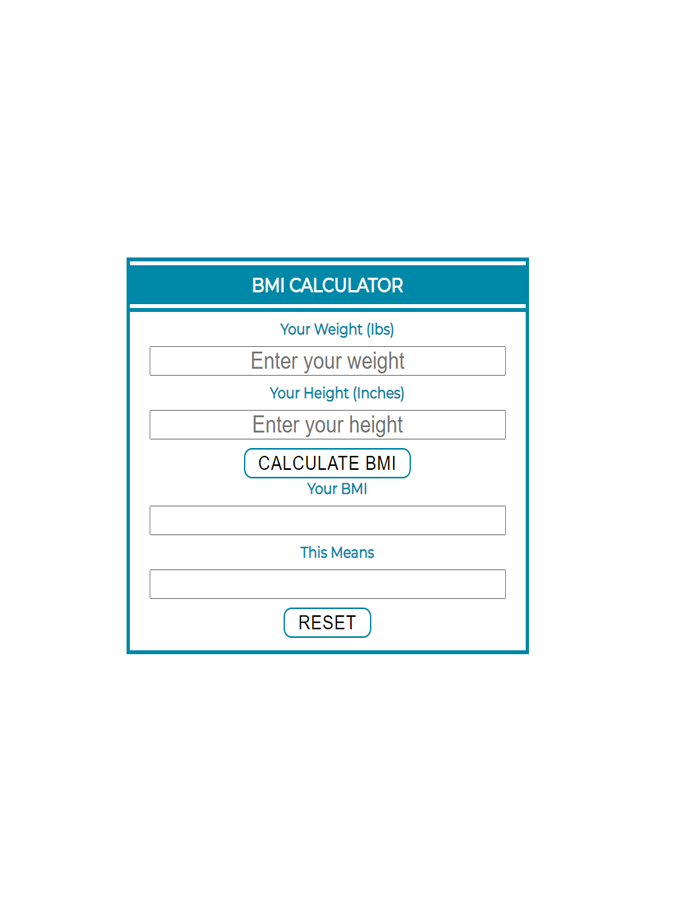
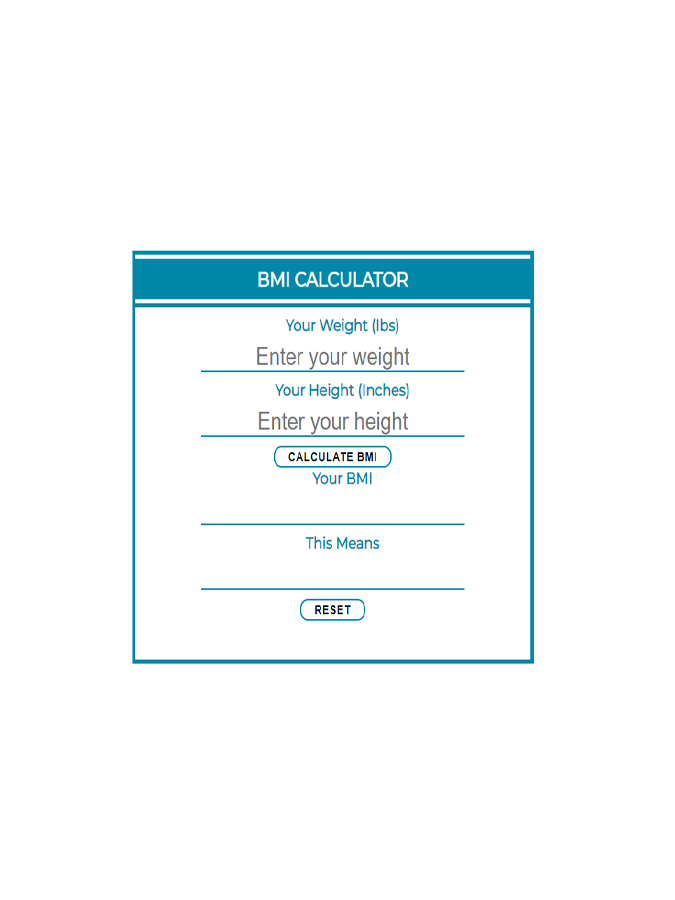
updateit

Changed region(s): [[0.1867, 0.28, 0.8089, 0.7467]]

diff --git a/css/style.css b/css/style.css
@@ -933,7 +933,6 @@ button {
   #undctable {
     border: 2px solid#0088a9;
     border-radius: 4px;
-    background-color: #eee;
     padding: 8px;
     margin-top: 15px;
   }
@@ -941,9 +940,14 @@ button {
   .ucdcinput {
     width: 200px;
     padding: 8px;
-    border-radius: 10px;
     font-size: 20px;
     outline: 0;
+    background: none;
+    text-align: center;
+    outline: none;
+    border: none;
+    border-bottom: 2px solid #0088a9;
+    width: 200px;
   }
 
   .bigtext {
@@ -971,32 +975,91 @@ button {
   /* End Hex to bin */
 
   /* Unicode */
-  .unicode {
+  #infos .row {
+    width: 90%;
+    padding: 20px;
+    margin: 100px auto;
+    display: flex;
+    flex-direction: row;
+    justify-content: center;
+  }
+
+  #infos .column {
+    width: 350px;
+    margin: -50px 10px;
+    box-shadow: 0 0 20px 2px rgba(0, 0, 0, 0.1);
+    transition: 1s;
+  }
+
+  #infos .column img {
+    display: block;
+    width: 100%;
+    border-radius: 5px;
     border: 2px solid#0088a9;
-    border-radius: 4px;
-    background-color: #eee;
-    padding: 8px;
-    margin-top: 15px;
-    margin-left: 30%;
-    margin-right: 30%;
   }
 
-  .unicode h2 {
-    font-size: 18px;
+  #infos .column:hover {
+    transform: scale(1.3);
+    z-index: 2;
   }
 
-  .column {
-    margin-top: -250px;
-    float: left;
-    width: 33.33%;
-    padding: 5px;
-    border: 2px solid #0088a9;
-  }
-
-  .row::after {
+  #infos .row::after {
     content: "";
     display: table;
     clear: both;
+  }
+
+  #infos .top {
+    font-size: 30px;
+    font-weight: 600;
+    color: red;
+  }
+
+  #infos .text {
+    text-align: center;
+    font-weight: bold;
+    color: #000;
+  }
+
+  #infos .info {
+    font-size: 14px;
+    font-family: inherit;
+    font-weight: bold;
+    color: #000;
+  }
+
+  #infos .unicode-con {
+    border: 2px solid#0088a9;
+    width: 500px;
+    background-color: white;
+    transform: translate(-50%, -50%);
+    padding: 20px;
+    border-radius: 10px;
+    margin-top: 150px;
+    margin-left: 450px;
+  }
+
+  #infos .unicode-con input {
+    font-size: 30px;
+    margin: 10px 5%;
+    width: 90%;
+    background: none;
+    text-align: center;
+    outline: none;
+    border: none;
+    border-bottom: 2px solid #0088a9;
+    width: 200px;
+  }
+
+  #infos .res {
+    color: #0088a9;
+    font-size: 20px;
+    font-weight: bolder;
+  }
+  #infos .unicode-con button {
+    font-size: 15px;
+    margin-top: 20px;
+    font-weight: bold;
   }
   /* End unicode */
 
@@ -1049,13 +1112,81 @@ button {
     font-size: 30px;
     margin: 10px 5%;
     width: 90%;
+    background: none;
     text-align: center;
+    outline: none;
+    border: none;
+    border-bottom: 2px solid #0088a9;
+    width: 400px;
   }
+
   #infos .bmi-cal button {
     font-size: 15px;
     font-weight: bold;
   }
   /* END BMI Calculator */
+
+  /* ASCII Calculator */
+  #infos .pic1 {
+    align-items: center;
+    height: 60%;
+    width: 60%;
+    position: relative;
+  }
+
+  #infos .top {
+    font-size: 30px;
+    font-weight: 600;
+    color: red;
+  }
+
+  #infos .text {
+    text-align: center;
+    font-weight: bold;
+    color: #000;
+  }
+
+  #infos .info {
+    font-size: 14px;
+    font-family: inherit;
+    font-weight: bold;
+    color: #000;
+  }
+
+  #infos .ascii-con {
+    border: 2px solid#0088a9;
+    width: 500px;
+    background-color: white;
+    transform: translate(-50%, -50%);
+    padding: 20px;
+    border-radius: 10px;
+    margin-top: 150px;
+    margin-left: 450px;
+  }
+
+  #infos .ascii-con input {
+    font-size: 30px;
+    margin: 10px 5%;
+    width: 90%;
+    background: none;
+    text-align: center;
+    outline: none;
+    border: none;
+    border-bottom: 2px solid #0088a9;
+    width: 200px;
+  }
+
+  #infos .res {
+    color: #0088a9;
+    font-size: 20px;
+    font-weight: bolder;
+  }
+  #infos .ascii-con button {
+    font-size: 15px;
+    margin-top: 20px;
+    font-weight: bold;
+  }
+  /* END ASCII Calculator */
 
   /* contact  */
   #contact .contact {
@@ -1160,5 +1291,17 @@ button {
   .team-section .team-items .item {
     flex-basis: calc(100%);
     max-width: calc(100%);
+  }
+}
+
+@media only screen and (min-height: 700px) {
+  .bmi-cal {
+    width: 500px;
+    position: relative;
+    top: 50%;
+    left: 50%;
+    transform: translate(-50%, -50%);
+    padding: 20px;
+    border-radius: 1px solid #0088a9;
   }
 }

diff --git a/unicode.html b/unicode.html
@@ -36,34 +36,39 @@
     </section>
     <!-- End Header -->
 
-    <!-- BMI Section -->
+    <!-- ascii Section -->
     <section id="infos">
       <div class="infos container">
         <div class="info-top">
-          <h1 class="section-title">BMI <span>CALCULATOR</span></h1>
-          <h2>JavaScript in action(BMI CALCULATOR)</h2>
+          <h1 class="section-title">UNICODE <span>CONVERTER</span></h1>
+          <h2>JavaScript in action(UNICODE CONVERTER)</h2>
           <p>.</p>
         </div>
 
-        <div class="bmi-cal">
-            <form name="bmiForm">
-              <h1>BMI CALCULATOR</h1>
-              <hr>
-              <label for="">Your Weight (Ibs)</label>
-              <input type="text" name="weight" placeholder="Enter your weight" size="10" class="weight"><br />
-              <label for="">Your Height (Inches)</label>
-              <input type="text" name="height" placeholder="Enter your height" size="10" class="height"><br />
-              <button type="button" value="Calculate BMI" class="cta" onClick="calculateBmi()">Calculate BMI</button><br />
-              <label for="" class="name">Your BMI</label>
-              <input type="text" name="bmi" size="10"><br />
-              <label for="" class="name">This Means</label>
-              <input type="text" name="meaning" size="25"><br />
-              <button type="reset" class="cta" value="Reset" />Reset</button>
-              </form>
+        <div class="row">
+          <div class="column">
+           <img src="./img/uni1.jpg" alt="img" width="100%" />
+          </div>
+  
+          <div class="column">
+           <img src="./img/uni3.jpg" alt="img" width="100%" />
+          </div>
+  
+          <div class="column">
+           <img src="./img/uni4.jpg" alt="img" width="100%" />
+          </div>
+      </div>
+
+        <div class="unicode-con">
+              <h3 class="top">UNICODE CONVERTER</h3>
+              <p class="text">Enter any Unicode Number from above:</p>
+              <input type="text" id="num1">
+              <p id="result" class="res"></p>
+              <button id="btn" class="cta" onclick="UniCon()">Submit</button>
             </div>
           </div>
     </section>
-    <!-- End BMI Section -->
+    <!-- End ascii Section -->
   
 
 <!-- Footer -->

diff --git a/ascii.html b/ascii.html
@@ -36,34 +36,30 @@
     </section>
     <!-- End Header -->
 
-    <!-- BMI Section -->
+    <!-- ascii Section -->
     <section id="infos">
       <div class="infos container">
         <div class="info-top">
-          <h1 class="section-title">BMI <span>CALCULATOR</span></h1>
-          <h2>JavaScript in action(BMI CALCULATOR)</h2>
+          <h1 class="section-title">ASCII <span>CONVERTER</span></h1>
+          <h2>JavaScript in action(ASCII CONVERTER)</h2>
           <p>.</p>
         </div>
 
-        <div class="bmi-cal">
-            <form name="bmiForm">
-              <h1>BMI CALCULATOR</h1>
-              <hr>
-              <label for="">Your Weight (Ibs)</label>
-              <input type="text" name="weight" placeholder="Enter your weight" size="10" class="weight"><br />
-              <label for="">Your Height (Inches)</label>
-              <input type="text" name="height" placeholder="Enter your height" size="10" class="height"><br />
-              <button type="button" value="Calculate BMI" class="cta" onClick="calculateBmi()">Calculate BMI</button><br />
-              <label for="" class="name">Your BMI</label>
-              <input type="text" name="bmi" size="10"><br />
-              <label for="" class="name">This Means</label>
-              <input type="text" name="meaning" size="25"><br />
-              <button type="reset" class="cta" value="Reset" />Reset</button>
-              </form>
+       <div class="pic1">
+        <img src="./img/ascii.png" alt="img" />
+       </div>
+
+        <div class="ascii-con">
+              <h3 class="top">ASCII CONVERTER</h3>
+              <p class="info">Enter any number from 0 to 127</p>
+              <p class="text">NUMBER:</p>
+              <input type="text" id="num">
+              <p id="result" class="res"></p>
+              <button id="btn" class="cta" onclick="Ascii()">Submit</button>
             </div>
           </div>
     </section>
-    <!-- End BMI Section -->
+    <!-- End ascii Section -->
   
 
 <!-- Footer -->

diff --git a/project.html b/project.html
@@ -120,7 +120,8 @@
         <div class="project-info">
           <h1>Project 6</h1>
           <h2>BMI CALCULATOR</h2>
-          <p><br><b><big>BMI Calculator</big></b> Not completed still under construction</p></br>
+          <p><b><br> Still under construction but ready for testing</p></br></b>
+          <p><br><b><big>BMI Calculator</big></b> Body mass index (BMI) is a measure of body fat based on height and weight that applies to adult men and women.</p></br>
           <a href="bmical.html"><h3>Click Here</h3></a>
         </div>
         <div class="project-img">
@@ -131,9 +132,13 @@
         <div class="project-info">
           <h1>Project 7</h1>
           <h2>TEXT AS UNICODE, HEX TO BINARY, TEXT AS ASCII </h2>
-          <p><br><b><big></big></b> under construction</p></br>
+          <p><b><br> Still under construction but ready for testing</p></br></b>
           <p>Student 2: Interactive Web Page demonstrating conversion from Hex to binary, representing text as ASCII, representing text as UNICODE. </p>
-          <a href="stud2.html"><h3>Click Here</h3></a>
+          <a href="stud2.html"><h3>Click Here for Hex to binary</h3>
+            <br>
+          <a href="ascii.html"><h3>Click Here for ASCII Converter</h3></a>
+           <br>
+           <a href="unicode.html"><h3>Click Here for UNICODE Converter</h3></a> 
         </div>
         <div class="project-img">
           <img src="./img/hextobin.png" alt="img" />

diff --git a/js/script.js b/js/script.js
@@ -240,3 +240,17 @@ function myFunction() {
   
   document.getElementById("demo").innerHTML = unicode;
 }
+
+function Ascii() {
+	var num = document.getElementById('num').value;
+	var result = String.fromCharCode(num);
+	document.getElementById("result").innerHTML = result;
+	console.log(result);
+}
+
+function UniCon() {
+	var num1 = document.getElementById('num1').value;
+	text = num1;
+	uniCode = ("&#x" + num1)
+	document.getElementById("result").innerHTML = uniCode;
+}

diff --git a/stud2.html b/stud2.html
@@ -47,6 +47,7 @@
         <form>
         <div id="undctable">
         <table cellpadding="5">
+          <h3 class="top">HEX TO BINARY</h3>
           <tr>
             <td class="bigtext"><h2>From: </h2></td>		
             <td ><input type="text" name="ucfrom" class="ucdcinput" id="ucfrom" onKeyUp="ucDCUpdateResult(0);" autofocus></td>
